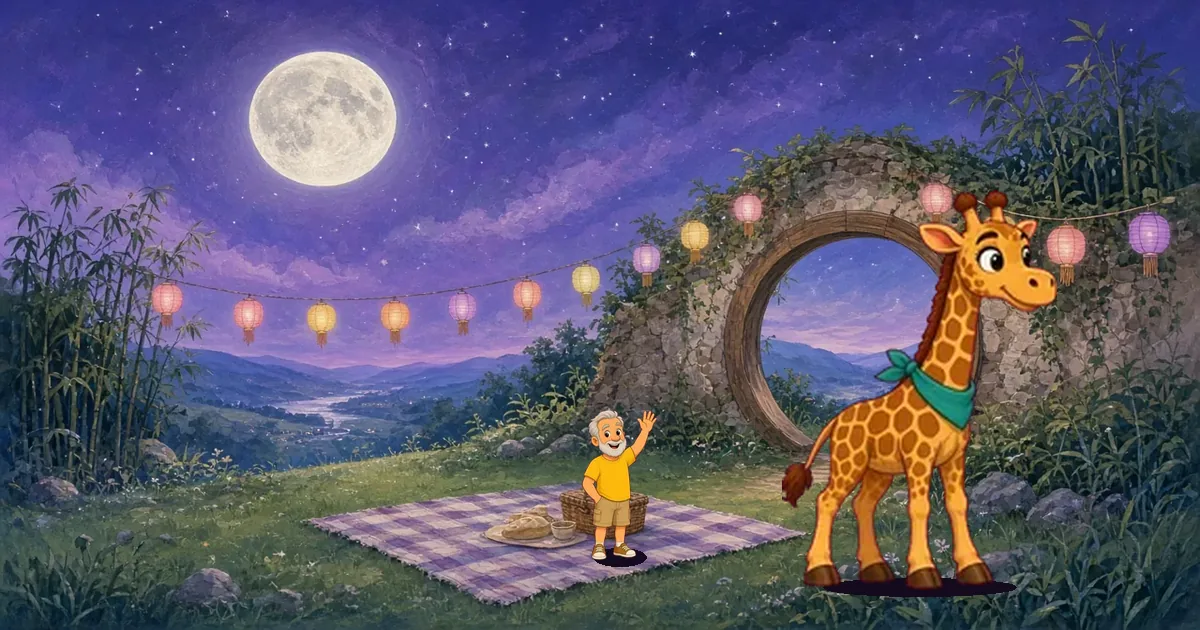
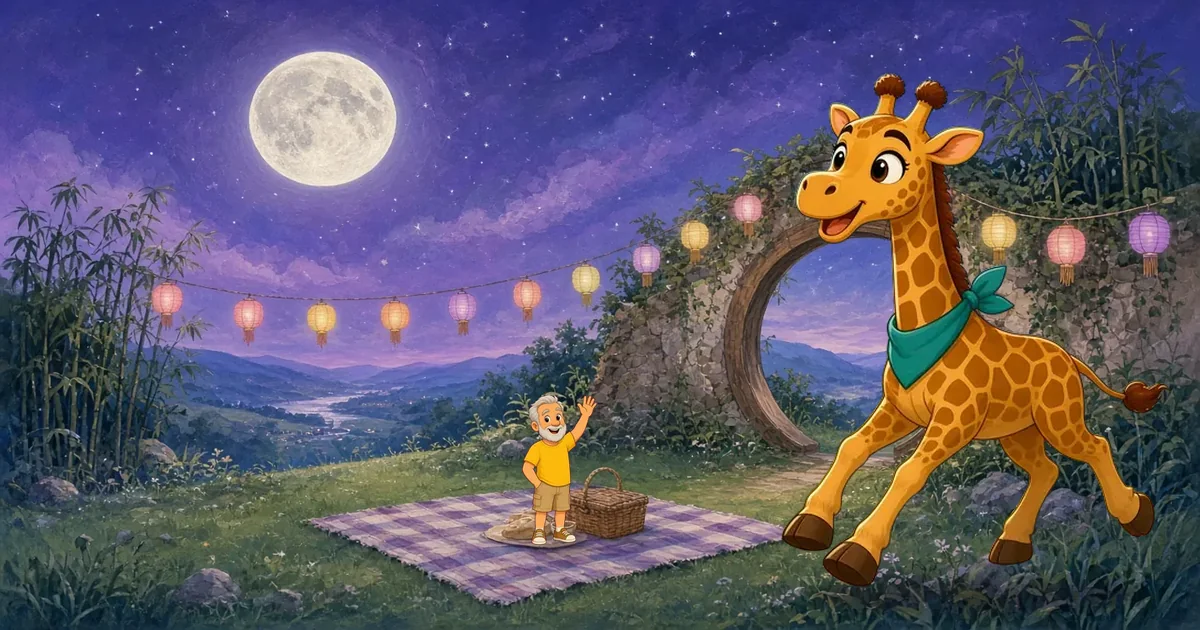
Use the existing Kelly giraffe art on Vol. 9
The title, story scenes, and app icon were redrawn. They now use the Vol. 7 portrait icons and the same painted Kelly (scarf, spots, face, and proportions) from that volume's cover. The in-game ride sprites were already those files and are unchanged.

Changed region(s): [[0.6475, 0.1206, 0.9867, 0.9651], [0.4317, 0.6333, 0.555, 0.9048]]

diff --git a/games/kellys-giraffe-adventure-vol-9/sw.js b/games/kellys-giraffe-adventure-vol-9/sw.js
@@ -1,7 +1,7 @@
 /* auto-update: HTML/JS/CSS/JSON always revalidated with the server (no stale copies); cache is the offline fallback */
 const __NC=r=>{try{const u=new URL(r.url);return u.origin==location.origin&&(r.mode=='navigate'||/(\/|\.html?|\.m?js|\.css|\.json)$/.test(u.pathname))?{cache:'no-cache'}:{}}catch(e){return {}}};
-const CACHE='kga9-v1';
-self.addEventListener('install',e=>{self.skipWaiting();e.waitUntil(caches.open(CACHE).then(c=>c.addAll(["./", "cover.png", "game.js?v=1", "icon-192.png", "icon-512.png", "style.css?v=1", "art/armad.webp?v=1", "art/bab_dizzy.webp?v=1", "art/bab_idle.webp?v=1", "art/bab_throw.webp?v=1", "art/bee1.webp?v=1", "art/bee2.webp?v=1", "art/beetle1.webp?v=1", "art/beetle2.webp?v=1", "art/berry.webp?v=1", "art/bg1.webp?v=1", "art/bg2.webp?v=1", "art/bg3.webp?v=1", "art/cak_dizzy.webp?v=1", "art/cak_idle.webp?v=1", "art/cak_rage.webp?v=1", "art/cak_throw.webp?v=1", "art/cover.webp?v=1", "art/flag.webp?v=1", "art/gem.webp?v=1", "art/heart.webp?v=1", "art/hook.webp?v=1", "art/hy_dizzy.webp?v=1", "art/hy_walk1.webp?v=1", "art/hy_walk2.webp?v=1", "art/meta.json?v=1", "art/monkey.webp?v=1", "art/peter.webp?v=1", "art/porc.webp?v=1", "art/ride_body.webp?v=1", "art/ride_idle.webp?v=1", "art/ride_jump.webp?v=1", "art/ride_ram.webp?v=1", "art/ride_run1.webp?v=1", "art/ride_run2.webp?v=1", "art/ride_tongue.webp?v=1", "art/rock.webp?v=1", "art/sign.webp?v=1", "art/star.webp?v=1", "art/story1.webp?v=1", "art/story2.webp?v=1", "art/story3.webp?v=1", "art/ter1.webp?v=1", "art/ter2.webp?v=1", "art/ter3.webp?v=1", "art/tusk_charge.webp?v=1", "art/tusk_dizzy.webp?v=1", "art/tusk_idle.webp?v=1", "art/vult1.webp?v=1", "art/vult2.webp?v=1", "fonts/baloo.woff2", "fonts/lilita.woff2"])).catch(()=>{}))});
+const CACHE='kga9-v2';
+self.addEventListener('install',e=>{self.skipWaiting();e.waitUntil(caches.open(CACHE).then(c=>c.addAll(["./", "cover.png", "game.js?v=2", "icon-192.png", "icon-512.png", "style.css?v=2", "art/armad.webp?v=2", "art/bab_dizzy.webp?v=2", "art/bab_idle.webp?v=2", "art/bab_throw.webp?v=2", "art/bee1.webp?v=2", "art/bee2.webp?v=2", "art/beetle1.webp?v=2", "art/beetle2.webp?v=2", "art/berry.webp?v=2", "art/bg1.webp?v=2", "art/bg2.webp?v=2", "art/bg3.webp?v=2", "art/cak_dizzy.webp?v=2", "art/cak_idle.webp?v=2", "art/cak_rage.webp?v=2", "art/cak_throw.webp?v=2", "art/cover.webp?v=2", "art/flag.webp?v=2", "art/gem.webp?v=2", "art/heart.webp?v=2", "art/hook.webp?v=2", "art/hy_dizzy.webp?v=2", "art/hy_walk1.webp?v=2", "art/hy_walk2.webp?v=2", "art/meta.json?v=2", "art/monkey.webp?v=2", "art/peter.webp?v=2", "art/porc.webp?v=2", "art/ride_body.webp?v=2", "art/ride_idle.webp?v=2", "art/ride_jump.webp?v=2", "art/ride_ram.webp?v=2", "art/ride_run1.webp?v=2", "art/ride_run2.webp?v=2", "art/ride_tongue.webp?v=2", "art/rock.webp?v=2", "art/sign.webp?v=2", "art/star.webp?v=2", "art/story1.webp?v=2", "art/story2.webp?v=2", "art/story3.webp?v=2", "art/ter1.webp?v=2", "art/ter2.webp?v=2", "art/ter3.webp?v=2", "art/tusk_charge.webp?v=2", "art/tusk_dizzy.webp?v=2", "art/tusk_idle.webp?v=2", "art/vult1.webp?v=2", "art/vult2.webp?v=2", "fonts/baloo.woff2", "fonts/lilita.woff2"])).catch(()=>{}))});
 self.addEventListener('activate',e=>{e.waitUntil(caches.keys().then(ks=>Promise.all(ks.filter(k=>k!==CACHE).map(k=>caches.delete(k)))).then(()=>self.clients.claim()))});
 self.addEventListener('fetch',e=>{const u=new URL(e.request.url);if(e.request.method!=='GET'||u.origin!==location.origin)return;
  e.respondWith(fetch(e.request,__NC(e.request)).then(r=>{const cp=r.clone();caches.open(CACHE).then(c=>c.put(e.request,cp)).catch(()=>{});return r}).catch(()=>caches.match(e.request).then(m=>m||caches.match(e.request,{ignoreSearch:true}))))});

diff --git a/games/kellys-giraffe-adventure-vol-9/index.html b/games/kellys-giraffe-adventure-vol-9/index.html
@@ -15,7 +15,7 @@
 <link rel="apple-touch-icon" href="icon-192.png">
 <meta name="apple-mobile-web-app-capable" content="yes"><meta name="mobile-web-app-capable" content="yes"><meta name="apple-mobile-web-app-title" content="Lantern Lake">
 <link rel="preload" href="fonts/lilita.woff2" as="font" type="font/woff2" crossorigin>
-<link rel="stylesheet" href="style.css?v=1">
+<link rel="stylesheet" href="style.css?v=2">
 </head><body>
 <div id="bgart" hidden></div>
 <canvas id="cv" aria-label="Kelly's Giraffe Adventure Vol. 9 game"></canvas><div id="sp"></div>
@@ -28,8 +28,8 @@
 <div id="ui"></div>
 <div id="toast" role="status" aria-live="polite"></div>
 <div id="load"><div class="ld">GIRAFFE ADVENTURE<small>Vol. 9 · Lantern Lake</small></div><div class="bar"><i></i></div></div>
-<script>window.VERSION='1';window.addEventListener('error',e=>{(window.__ERR=window.__ERR||[]).push(String(e.message))});</script>
-<script src="game.js?v=1"></script>
+<script>window.VERSION='2';window.addEventListener('error',e=>{(window.__ERR=window.__ERR||[]).push(String(e.message))});</script>
+<script src="game.js?v=2"></script>
 <!--lb--><script>// LIVE config (Firestore). Public web keys only (safe to ship per Firebase docs). Used only for J Woo's Fishing Challenge + its five8nine copy.
 window.PALB_CONFIG = {
   backend: 'firestore',
